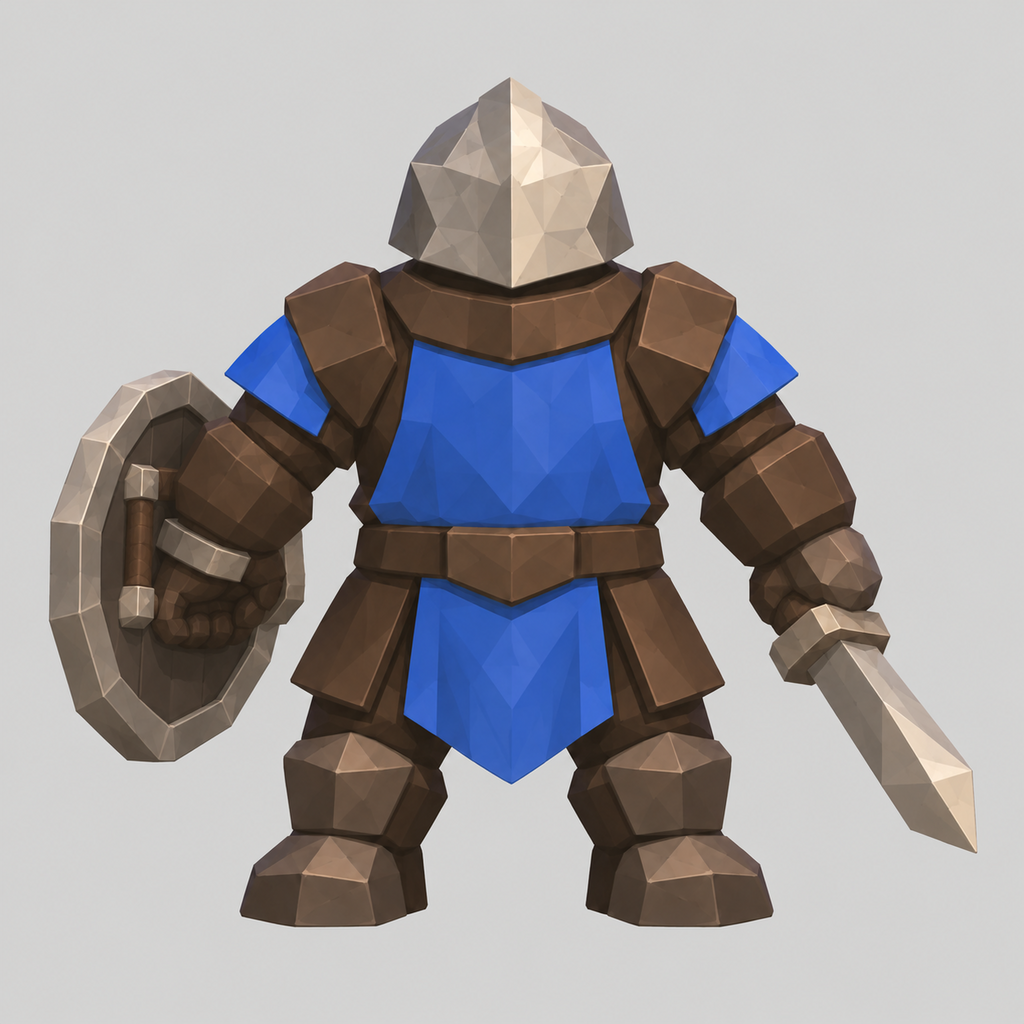
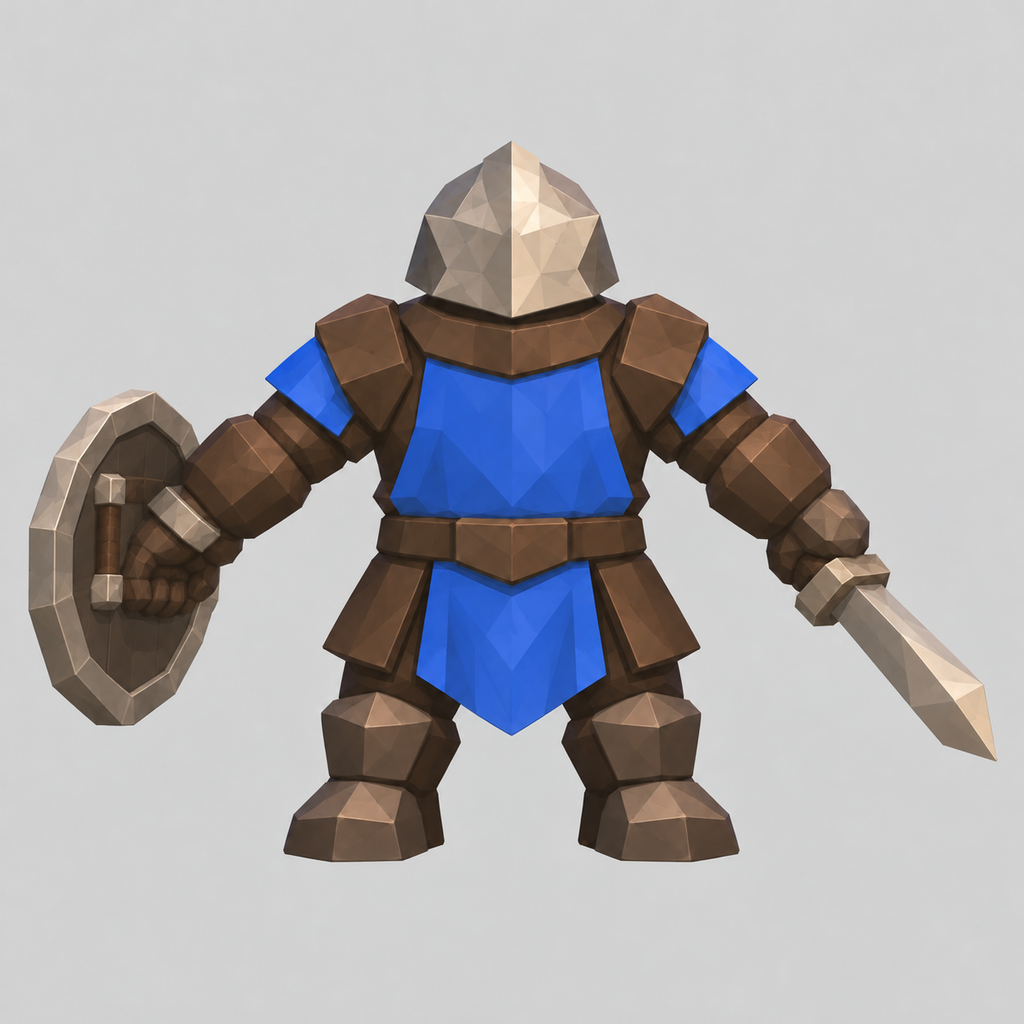
art: revise melee creep turnarounds to A-pose

Changed region(s): [[0.0, 0.0625, 0.9688, 0.9062], [0.5, 0.4375, 0.5312, 0.4688]]

diff --git a/art_inbox/YEU_CAU_STYLE.md b/art_inbox/YEU_CAU_STYLE.md
@@ -186,3 +186,6 @@ Tripo dựng ít tam giác mà vẫn đẹp.
 Làm **trước 2 mẫu thử**: `neutral_wolf` và `creep_melee` (đủ 3 hướng), **commit và push lên nhánh
 `thu-asset-tu-lam`** (repo `langhoangtien/clash-born-v2`), đánh dấu `[x]`, rồi **DỪNG** báo người dùng. Người dùng
 duyệt hai mẫu này xong mới làm các mục còn lại.
+
+Làm lại `creep_melee` (3 hướng): dang hai tay A-pose ~45°, cầm khiên và kiếm ra xa thân để không che ngực,
+giữ nguyên thiết kế cũ.
